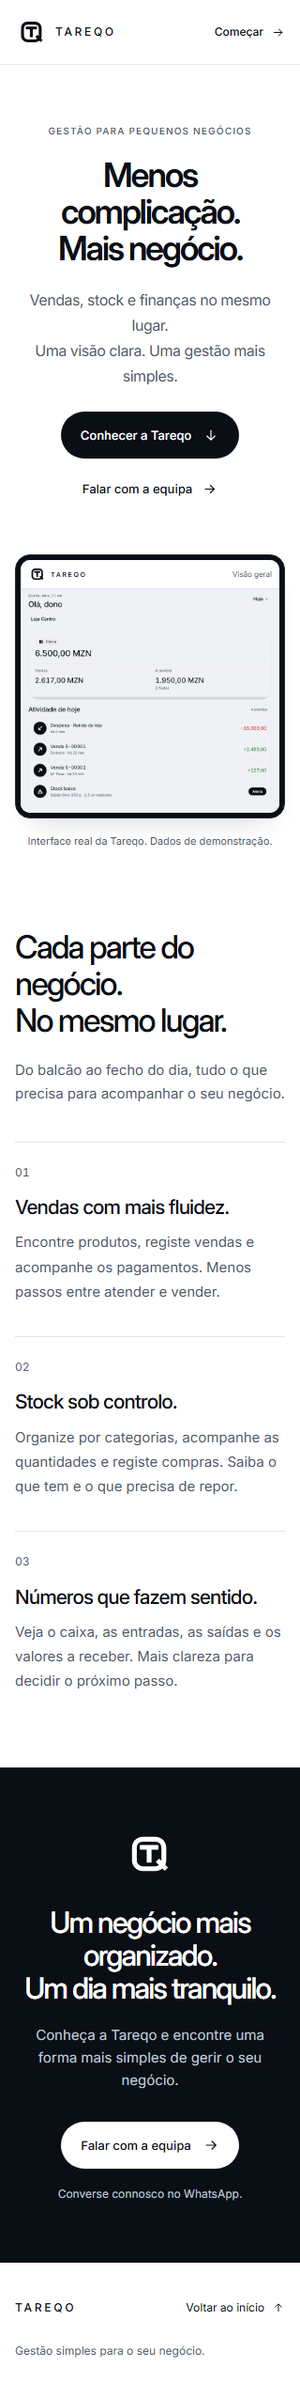
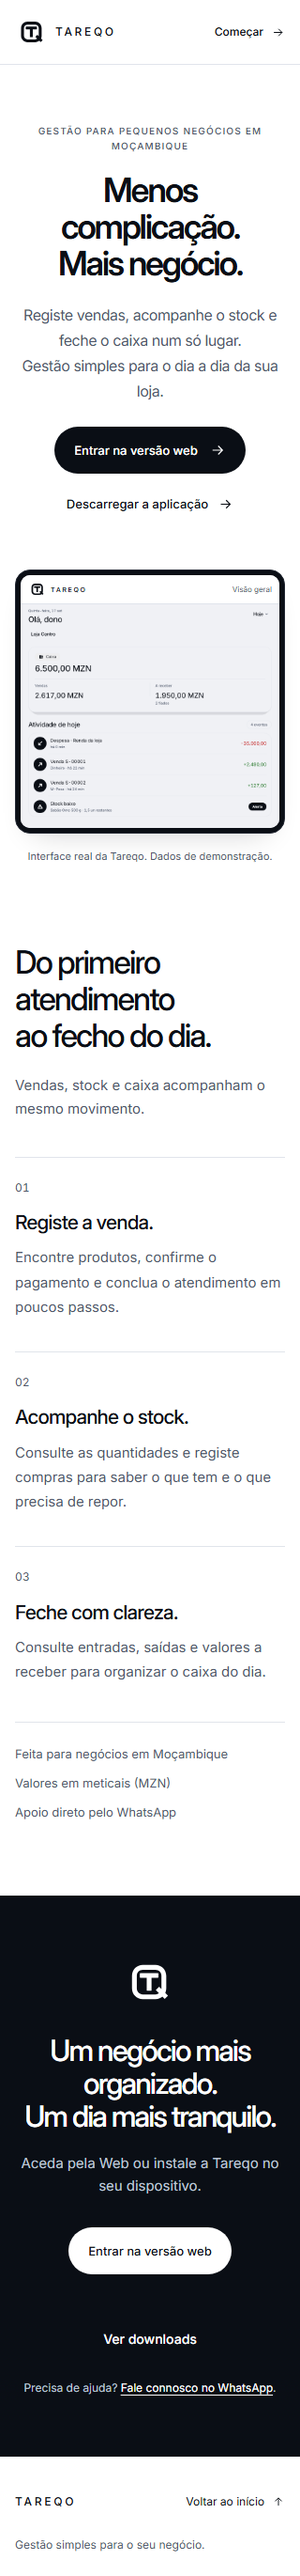
feat(landing): clarify Tareqo value and downloads

Changed region(s): [[0.0, 0.0, 1.0, 0.9972], [0.7812, 0.4363, 0.875, 0.4675], [0.0625, 0.0, 0.125, 0.0312]]

diff --git a/website/index.html b/website/index.html
@@ -4,13 +4,13 @@
   <meta charset="utf-8">
   <meta name="viewport" content="width=device-width, initial-scale=1">
   <meta name="theme-color" content="#FFFFFF">
-  <meta name="description" content="Vendas, stock e finanças no mesmo lugar. Conheça a Tareqo: uma forma simples de gerir o seu negócio, as suas lojas e a sua equipa.">
+  <meta name="description" content="Gestão para pequenos negócios em Moçambique: vendas, stock, compras e caixa num só lugar.">
   <meta property="og:type" content="website">
   <meta property="og:title" content="Tareqo — Menos complicação. Mais negócio.">
-  <meta property="og:description" content="Uma visão clara das vendas, do stock e das finanças. Gestão pensada para o seu dia a dia.">
+  <meta property="og:description" content="Registe vendas, acompanhe o stock e feche o caixa com uma visão clara do seu negócio.">
   <meta property="og:locale" content="pt_MZ">
   <meta name="color-scheme" content="light">
-  <title>Tareqo — Menos complicação. Mais negócio.</title>
+  <title>Tareqo — Vendas, stock e caixa para pequenos negócios</title>
   <link rel="icon" href="assets/favicon.svg" type="image/svg+xml">
   <link rel="preload" href="assets/Inter-Variable.ttf" as="font" type="font/ttf" crossorigin>
   <style>
@@ -151,13 +151,17 @@
     .feature-number { display: block; margin-bottom: 22px; color: var(--text-secondary); font-size: 12px; font-variant-numeric: tabular-nums; }
     .feature h3 { font-size: 20px; font-weight: 500; letter-spacing: -0.04em; line-height: 1.35; }
     .feature p { margin-top: 14px; color: var(--text-secondary); font-size: 15px; line-height: 1.75; max-width: 310px; }
+    .trust-list { display: grid; grid-template-columns: repeat(3, 1fr); gap: 18px; margin: 58px 0 0; padding: 23px 0 0; border-top: 1px solid var(--line); list-style: none; color: var(--text-secondary); text-align: center; font-size: 13px; }
     .closing { background: var(--ink); color: var(--paper); padding: 84px 24px 90px; text-align: center; }
     .closing-logo { width: 70px; height: 70px; margin: 0 auto 30px; }
     .closing h2 { max-width: 710px; margin: auto; font-size: clamp(34px, 4.1vw, 52px); }
     .closing-copy { max-width: 460px; margin: 22px auto 0; color: var(--on-dark-secondary); font-size: 16px; }
     .button-light { margin-top: 32px; background: var(--paper); color: var(--ink); }
     .button-light:hover { background: var(--canvas); transform: translateY(-2px); }
+    .closing-actions { display: flex; align-items: center; justify-content: center; flex-wrap: wrap; gap: 12px 24px; }
+    .closing-link { display: inline-flex; align-items: center; justify-content: center; min-height: 50px; margin-top: 32px; color: var(--paper); font-size: 14px; font-weight: 500; }
     .contact-note { margin-top: 17px; color: var(--on-dark-secondary); font-size: 12px; }
+    .contact-note a { color: var(--paper); text-decoration: underline; text-underline-offset: 3px; }
     .site-footer { padding: 32px 0; }
     .footer-inner { display: flex; align-items: center; justify-content: space-between; gap: 24px; }
     .footer-inner .wordmark { font-size: 12px; letter-spacing: 0.23em; }
@@ -209,6 +213,7 @@
       .feature-number { margin-bottom: 14px; }
       .feature h3 { font-size: 21px; }
       .feature p { max-width: 100%; font-size: 15px; margin-top: 10px; }
+      .trust-list { grid-template-columns: 1fr; gap: 10px; margin-top: 40px; text-align: left; }
       .closing { padding: 62px 20px 64px; }
       .closing-logo { width: 60px; height: 60px; margin-bottom: 25px; }
       .closing h2 { font-size: 34px; }
@@ -249,13 +254,12 @@
   </header>
   <main id="conteudo" tabindex="-1">
     <section class="hero container" aria-labelledby="hero-title">
-      <p class="eyebrow">Gestão para pequenos negócios</p>
+      <p class="eyebrow">Gestão para pequenos negócios em Moçambique</p>
       <h1 id="hero-title"><span>Menos complicação.</span><span>Mais negócio.</span></h1>
-      <p class="hero-copy">Vendas, stock e finanças no mesmo lugar.<br>Uma visão clara. Uma gestão mais simples.</p>
+      <p class="hero-copy">Registe vendas, acompanhe o stock e feche o caixa num só lugar.<br>Gestão simples para o dia a dia da sua loja.</p>
       <div class="hero-actions">
-        <a class="button button-dark" href="#produto">Conhecer a Tareqo <svg viewBox="0 0 24 24" fill="none" stroke="currentColor" stroke-width="1.6" aria-hidden="true"><path d="M12 5v14M6 13l6 6 6-6"/></svg></a>
-        <a class="text-link" href="https://app.dumbhanengue.com/">Abrir no navegador <svg viewBox="0 0 24 24" fill="none" stroke="currentColor" stroke-width="1.6" aria-hidden="true"><path d="M5 12h14M13 6l6 6-6 6"/></svg></a>
-        <a class="text-link" href="https://wa.me/258846606062?text=Ol%C3%A1%21%20Quero%20conhecer%20a%20Tareqo%20para%20o%20meu%20neg%C3%B3cio." target="_blank" rel="noopener noreferrer">Falar com a equipa <svg viewBox="0 0 24 24" fill="none" stroke="currentColor" stroke-width="1.6" aria-hidden="true"><path d="M5 12h14M13 6l6 6-6 6"/></svg><span class="sr-only"> (WhatsApp, abre numa nova janela)</span></a>
+        <a class="button button-dark" href="https://app.dumbhanengue.com/">Entrar na versão web <svg viewBox="0 0 24 24" fill="none" stroke="currentColor" stroke-width="1.6" aria-hidden="true"><path d="M5 12h14M13 6l6 6-6 6"/></svg></a>
+        <a class="text-link" href="downloads.html">Descarregar a aplicação <svg viewBox="0 0 24 24" fill="none" stroke="currentColor" stroke-width="1.6" aria-hidden="true"><path d="M5 12h14M13 6l6 6-6 6"/></svg></a>
       </div>
       <figure class="product" id="produto" aria-label="Uma visão do aplicativo Tareqo">
         <div class="product-stage">
@@ -274,34 +278,41 @@
     </section>
     <section class="capabilities container" id="recursos" aria-labelledby="recursos-title">
       <div class="section-heading">
-        <h2 id="recursos-title">Cada parte do negócio.<br>No mesmo lugar.</h2>
-        <p>Do balcão ao fecho do dia, tudo o que precisa para acompanhar o seu negócio.</p>
+        <h2 id="recursos-title">Do primeiro atendimento<br>ao fecho do dia.</h2>
+        <p>Vendas, stock e caixa acompanham o mesmo movimento.</p>
       </div>
       <div class="feature-grid">
         <article class="feature">
           <span class="feature-number" aria-hidden="true">01</span>
-          <h3>Vendas com mais fluidez.</h3>
-          <p>Encontre produtos, registe vendas e acompanhe os pagamentos. Menos passos entre atender e vender.</p>
+          <h3>Registe a venda.</h3>
+          <p>Encontre produtos, confirme o pagamento e conclua o atendimento em poucos passos.</p>
         </article>
         <article class="feature">
           <span class="feature-number" aria-hidden="true">02</span>
-          <h3>Stock sob controlo.</h3>
-          <p>Organize por categorias, acompanhe as quantidades e registe compras. Saiba o que tem e o que precisa de repor.</p>
+          <h3>Acompanhe o stock.</h3>
+          <p>Consulte as quantidades e registe compras para saber o que tem e o que precisa de repor.</p>
         </article>
         <article class="feature">
           <span class="feature-number" aria-hidden="true">03</span>
-          <h3>Números que fazem sentido.</h3>
-          <p>Veja o caixa, as entradas, as saídas e os valores a receber. Mais clareza para decidir o próximo passo.</p>
+          <h3>Feche com clareza.</h3>
+          <p>Consulte entradas, saídas e valores a receber para organizar o caixa do dia.</p>
         </article>
       </div>
+      <ul class="trust-list" aria-label="Informações sobre a Tareqo">
+        <li>Feita para negócios em Moçambique</li>
+        <li>Valores em meticais (MZN)</li>
+        <li>Apoio direto pelo WhatsApp</li>
+      </ul>
     </section>
     <section class="closing" id="comecar" aria-labelledby="comecar-title">
       <img class="closing-logo" src="assets/tq-white.svg" width="70" height="70" alt="">
       <h2 id="comecar-title">Um negócio mais organizado.<br>Um dia mais tranquilo.</h2>
-      <p class="closing-copy">Conheça a Tareqo e encontre uma forma mais simples de gerir o seu negócio.</p>
-      <a class="button button-light" href="downloads.html" style="margin-right: 10px;">Descarregar a aplicação</a>
-      <a class="button button-light" href="https://wa.me/258846606062?text=Ol%C3%A1%21%20Quero%20conhecer%20a%20Tareqo%20para%20o%20meu%20neg%C3%B3cio." target="_blank" rel="noopener noreferrer" aria-label="Falar com a equipa no WhatsApp (abre numa nova janela)">Falar com a equipa <svg viewBox="0 0 24 24" fill="none" stroke="currentColor" stroke-width="1.6" aria-hidden="true"><path d="M5 12h14M13 6l6 6-6 6"/></svg></a>
-      <p class="contact-note">Converse connosco no WhatsApp.</p>
+      <p class="closing-copy">Aceda pela Web ou instale a Tareqo no seu dispositivo.</p>
+      <div class="closing-actions">
+        <a class="button button-light" href="https://app.dumbhanengue.com/">Entrar na versão web</a>
+        <a class="closing-link" href="downloads.html">Ver downloads</a>
+      </div>
+      <p class="contact-note">Precisa de ajuda? <a href="https://wa.me/258846606062?text=Ol%C3%A1%21%20Quero%20conhecer%20a%20Tareqo%20para%20o%20meu%20neg%C3%B3cio." target="_blank" rel="noopener noreferrer">Fale connosco no WhatsApp</a>.</p>
     </section>
   </main>
   <footer class="site-footer">

diff --git a/website/downloads.html b/website/downloads.html
@@ -4,7 +4,7 @@
   <meta charset="utf-8">
   <meta name="viewport" content="width=device-width, initial-scale=1">
   <meta name="theme-color" content="#FFFFFF">
-  <meta name="description" content="Use a Tareqo no navegador ou descarregue para Android e Windows. A versão para iPhone estará disponível em breve.">
+  <meta name="description" content="Aceda à Tareqo pela Web ou instale a aplicação em Android e Windows.">
   <title>Downloads — Tareqo</title>
   <link rel="icon" href="assets/favicon.svg" type="image/svg+xml">
   <link rel="preload" href="assets/Inter-Variable.ttf" as="font" type="font/ttf" crossorigin>
@@ -15,7 +15,7 @@
     a{color:inherit;text-decoration:none} a:focus-visible{outline:2px solid currentColor;outline-offset:5px} .container{width:min(var(--width),calc(100% - 40px));margin:auto}
     header{border-bottom:1px solid var(--line)} .header{min-height:76px;display:flex;align-items:center;justify-content:space-between;gap:20px}.brand{display:flex;align-items:center;gap:10px}.brand img{width:40px;height:40px}.wordmark{font-size:14px;font-weight:600;letter-spacing:.24em}.back{font-size:14px;color:var(--secondary)}
     main{padding:88px 0 110px}.eyebrow{text-transform:uppercase;letter-spacing:.15em;font-size:12px;color:var(--secondary)}h1{margin:16px 0 0;font-size:clamp(42px,7vw,68px);line-height:1.06;letter-spacing:-.06em;font-weight:600}.intro{max-width:560px;color:var(--secondary);font-size:18px;margin:22px 0 0}
-    .grid{display:grid;grid-template-columns:repeat(auto-fit,minmax(220px,1fr));gap:18px;margin-top:48px}.card{border:1px solid var(--line);border-radius:20px;padding:28px;display:flex;flex-direction:column;min-height:260px}.platform{font-size:12px;color:var(--secondary);text-transform:uppercase;letter-spacing:.12em}.card h2{font-size:23px;letter-spacing:-.04em;margin:12px 0 8px}.card p{font-size:14px;color:var(--secondary);margin:0 0 24px}.button{margin-top:auto;min-height:48px;padding:12px 18px;background:var(--ink);color:white;border-radius:999px;text-align:center;font-size:14px;font-weight:500}.button:hover{background:#212631}.soon{background:var(--canvas);color:var(--secondary);cursor:default}.note{margin-top:26px;font-size:13px;color:var(--secondary)}footer{border-top:1px solid var(--line);padding:24px 0;color:var(--secondary);font-size:12px}.footer{display:flex;justify-content:space-between;gap:16px}
+    .grid{display:grid;grid-template-columns:repeat(auto-fit,minmax(220px,1fr));gap:18px;margin-top:48px}.card{border:1px solid var(--line);border-radius:20px;padding:28px;display:flex;flex-direction:column;min-height:260px}.platform{font-size:12px;color:var(--secondary);text-transform:uppercase;letter-spacing:.12em}.card h2{font-size:23px;letter-spacing:-.04em;margin:12px 0 8px}.card p{font-size:14px;color:var(--secondary);margin:0 0 24px}.button{margin-top:auto;min-height:48px;padding:12px 18px;background:var(--ink);color:white;border-radius:999px;text-align:center;font-size:14px;font-weight:500}.button:hover{background:#212631}.soon{background:var(--canvas);color:var(--secondary);cursor:default}.note{margin-top:26px;font-size:13px;color:var(--secondary)}.note a{color:var(--ink);text-decoration:underline;text-underline-offset:3px}footer{border-top:1px solid var(--line);padding:24px 0;color:var(--secondary);font-size:12px}.footer{display:flex;justify-content:space-between;gap:16px}
     @media(max-width:700px){main{padding:64px 0 76px}.grid{grid-template-columns:1fr;margin-top:34px}.card{min-height:220px}.intro{font-size:16px}.footer{flex-direction:column}}
   </style>
 </head>
@@ -24,14 +24,14 @@
   <main class="container">
     <p class="eyebrow">Instale a Tareqo</p>
     <h1>Downloads</h1>
-    <p class="intro">Abra a Tareqo no navegador ou instale no seu dispositivo. Use sempre a versão mais recente publicada pela equipa Tareqo.</p>
+    <p class="intro">Entre pela Web ou instale a aplicação no Android ou Windows. Os downloads são sempre da versão oficial mais recente.</p>
     <section class="grid" aria-label="Aplicações disponíveis">
-      <article class="card"><span class="platform">Web</span><h2>No navegador</h2><p>Use a Tareqo sem instalar nada. Funciona em computador, tablet e telemóvel.</p><a class="button" href="https://app.dumbhanengue.com/" aria-label="Abrir a versão web da Tareqo no navegador">Abrir versão web</a></article>
-      <article class="card"><span class="platform">Android</span><h2>Telemóvel ou tablet</h2><p>Descarregue o ficheiro APK e abra-o no dispositivo Android para instalar.</p><a class="button" href="https://github.com/tareqotechnologies/Tareqo/releases/latest/download/tareqo-android.apk" aria-label="Descarregar APK da versão mais recente da Tareqo para Android">Descarregar APK</a></article>
-      <article class="card"><span class="platform">Windows</span><h2>Computador</h2><p>Obtenha a versão para Windows na página da versão mais recente.</p><a class="button" href="https://github.com/tareqotechnologies/Tareqo/releases/latest/download/TAREQO_SETUP.exe" aria-label="Descarregar aplicação da versão mais recente da Tareqo para Windows">Descarregar para Windows</a></article>
-      <article class="card"><span class="platform">iPhone e iPad</span><h2>iOS</h2><p>A versão para iOS estará disponível em breve. Estamos a preparar a distribuição.</p><span class="button soon" aria-label="Versão iOS em breve">Disponível em breve</span></article>
+      <article class="card"><span class="platform">Web</span><h2>No navegador</h2><p>Entre na sua conta e use a Tareqo no navegador, sem instalar.</p><a class="button" href="https://app.dumbhanengue.com/" aria-label="Abrir a versão web da Tareqo no navegador">Abrir versão web</a></article>
+      <article class="card"><span class="platform">Android</span><h2>Telemóvel ou tablet</h2><p>APK oficial para instalar a Tareqo diretamente no seu dispositivo Android.</p><a class="button" href="https://github.com/tareqotechnologies/Tareqo/releases/latest/download/tareqo-android.apk" aria-label="Descarregar APK da versão mais recente da Tareqo para Android">Descarregar APK</a></article>
+      <article class="card"><span class="platform">Windows</span><h2>Computador</h2><p>Instalador único para Windows 10 e 11. Inclui a aplicação e os recursos necessários.</p><a class="button" href="https://github.com/tareqotechnologies/Tareqo/releases/latest/download/TAREQO_SETUP.exe" aria-label="Descarregar aplicação da versão mais recente da Tareqo para Windows">Descarregar para Windows</a></article>
+      <article class="card"><span class="platform">iPhone e iPad</span><h2>iOS</h2><p>A versão para iPhone e iPad ainda está em preparação.</p><span class="button soon" aria-label="Versão iOS em breve">Disponível em breve</span></article>
     </section>
-    <p class="note">A versão web abre diretamente no navegador. Em Android e Windows, será encaminhado para a página oficial de versões da Tareqo no GitHub. Se não encontrar o instalador, contacte a nossa equipa pelo WhatsApp.</p>
+    <p class="note">Os ficheiros Android e Windows vêm da release oficial mais recente. Precisa de ajuda para instalar? <a href="https://wa.me/258846606062?text=Ol%C3%A1%21%20Preciso%20de%20ajuda%20para%20instalar%20a%20Tareqo." target="_blank" rel="noopener noreferrer">Fale connosco no WhatsApp</a>.</p>
   </main>
   <footer><div class="container footer"><span class="wordmark">TAREQO</span><span>Gestão simples para o seu negócio.</span></div></footer>
 </body>
